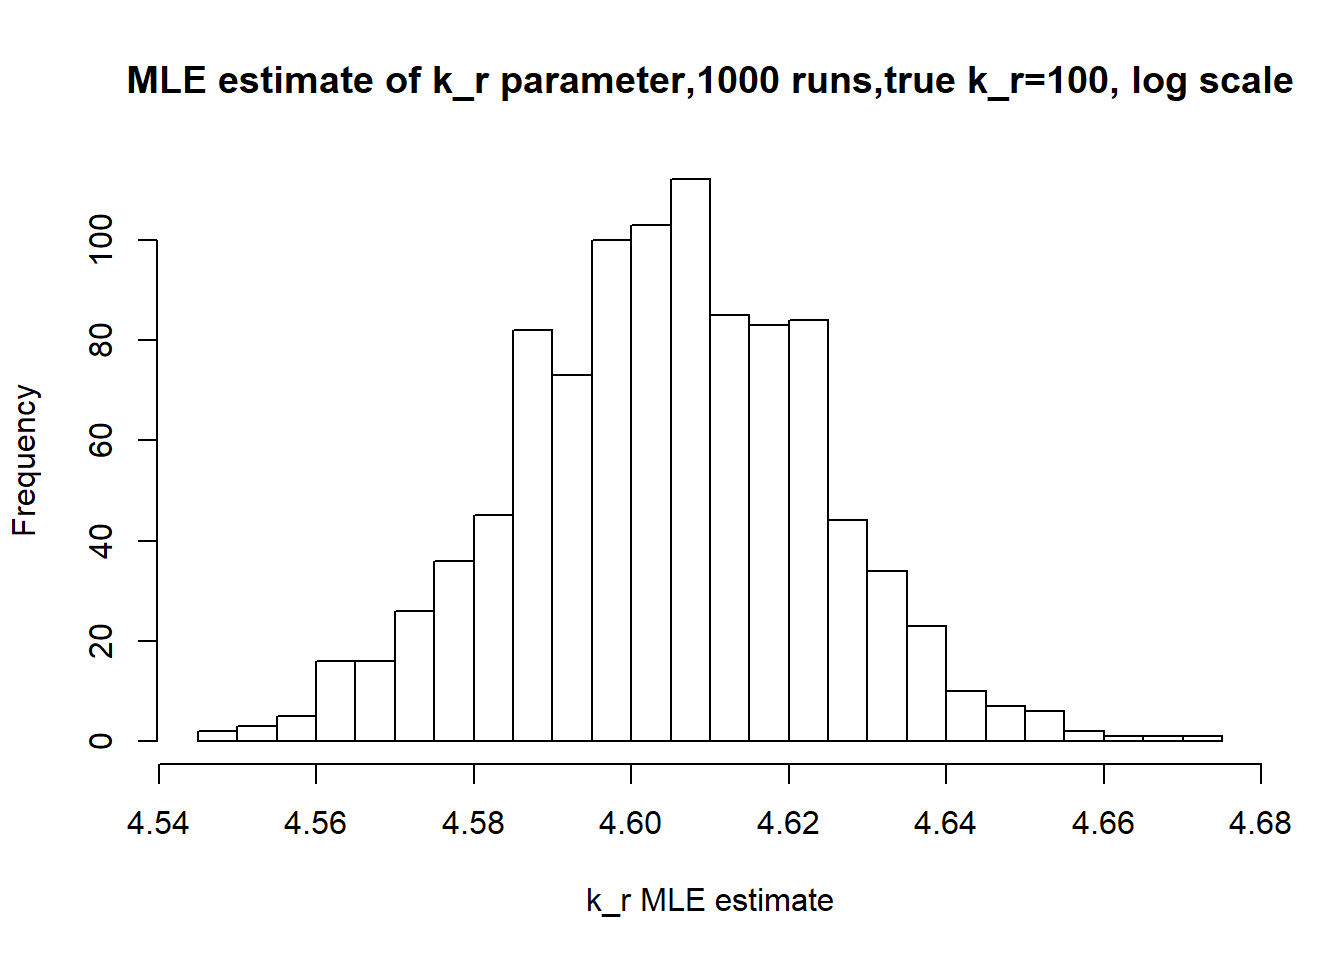
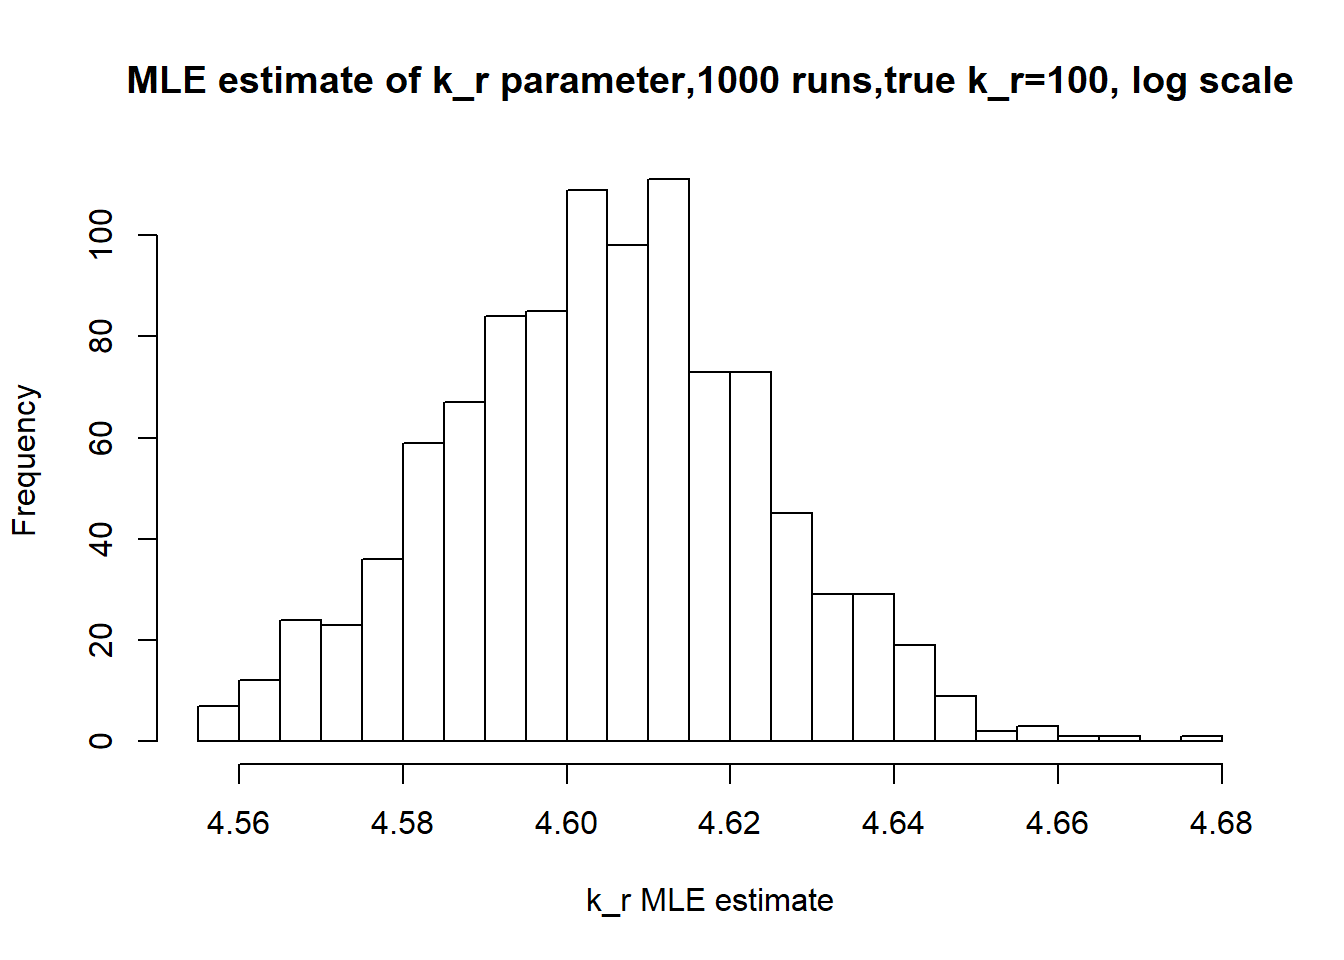
Build site.

diff --git a/docs/MLE_estimation_with_noise_parameter.html b/docs/MLE_estimation_with_noise_parameter.html
@@ -467,10 +467,10 @@ analysis/MLE_with_si.py
 <div class="panel panel-default">
 <div class="panel-heading">
 <p class="panel-title">
-<a data-toggle="collapse" data-parent="#workflowr-checks" href="#strongRepositoryversionstrongahrefhttpsgithubcomMargareth2407ThesissingleRNAtree1e3aeed50bc4f68b2cd2bc4b31e3de400831cb9btargetblank1e3aeeda"> <span class="glyphicon glyphicon-ok text-success" aria-hidden="true"></span> <strong>Repository version:</strong> <a href="https://github.com/Margareth2407/Thesis_single_RNA/tree/1e3aeed50bc4f68b2cd2bc4b31e3de400831cb9b" target="_blank">1e3aeed</a> </a>
+<a data-toggle="collapse" data-parent="#workflowr-checks" href="#strongRepositoryversionstrongahrefhttpsgithubcomMargareth2407ThesissingleRNAtreeb825f88168565e96829f50907dd5163ba465cd86targetblankb825f88a"> <span class="glyphicon glyphicon-ok text-success" aria-hidden="true"></span> <strong>Repository version:</strong> <a href="https://github.com/Margareth2407/Thesis_single_RNA/tree/b825f88168565e96829f50907dd5163ba465cd86" target="_blank">b825f88</a> </a>
 </p>
 </div>
[2 lines of base64/hex data omitted]
 <div class="panel-body">
 <p>
 Great! You are using Git for version control. Tracking code development and connecting the code version to the results is critical for reproducibility. The version displayed above was the version of the Git repository at the time these results were generated. <br><br> Note that you need to be careful to ensure that all relevant files for the analysis have been committed to Git prior to generating the results (you can use <code>wflow_publish</code> or <code>wflow_git_commit</code>). workflowr only checks the R Markdown file, but you know if there are other scripts or data files that it depends on. Below is the status of the Git repository when the results were generated:
@@ -525,42 +525,42 @@ n_cells=as.integer(100)
 x=generate_data(k_on,k_off,kr,n_cells)</code></pre>
 <pre class="r"><code>est=MaximumLikelihood(x)
 est</code></pre>
-<pre><code>[1]  0.1249461  0.1082681 98.7024566</code></pre>
+<pre><code>[1]   0.09774289   0.09789375 100.14870874</code></pre>
 <p>Then, we implement MLE calculation with <span class="math inline">\(s_i\)</span> parameter included.</p>
 <pre class="r"><code>source_python(&quot;C:/Users/Moonkin/Documents/GitHub/Thesis_single_RNA/analysis/MLE_with_si.py&quot;)</code></pre>
 <p>With <span class="math inline">\(s_i\)</span>=1 we should receive the same estimators as without <span class="math inline">\(s_i\)</span></p>
 <pre class="r"><code>si=matrix(1, nrow = 100, ncol = 1)
 est=MaximumLikelihood_with_si(x,si)
 est</code></pre>
-<pre><code>[1]  0.1249461  0.1082681 98.7024566</code></pre>
+<pre><code>[1]   0.09774289   0.09789375 100.14870874</code></pre>
 <p>With <span class="math inline">\(s_i\)</span>=2, our <span class="math inline">\(k_r\)</span> estimate drops twice, while <span class="math inline">\(k_{on}\)</span> and <span class="math inline">\(k_{off}\)</span> are not really affected by this change.</p>
 <pre class="r"><code>si=matrix(2, nrow = 100, ncol = 1)
 est=MaximumLikelihood_with_si(x,si)
 est</code></pre>
-<pre><code>[1]  0.1454266  0.5376166 53.8405016</code></pre>
+<pre><code>[1]  0.09799543  0.09834182 50.12201773</code></pre>
 <p>We also try using different <span class="math inline">\(s_i\)</span> values as this is what we will see in real data:</p>
 <pre class="r"><code>si=matrix(1:5, nrow = 100, ncol = 1)
 est=MaximumLikelihood_with_si(x,si)
 est</code></pre>
-<pre><code>[1]   0.2258937   0.6931179 106.6805741</code></pre>
+<pre><code>[1]   0.2072661   0.8161657 107.8370838</code></pre>
 </div>
 <div id="multiple-dataset-results" class="section level1">
 <h1>Multiple dataset results</h1>
 <p>Now we will also test model with <span class="math inline">\(s_i\)</span> vs the model without it:</p>
 <p>Initial MLE calculations:</p>
 <p><img src="figure/MLE_estimation_with_noise_parameter.Rmd/unnamed-chunk-8-1.png" width="672" style="display: block; margin: auto;" /></p>
-<pre><code>[1] &quot;true k_on is 0.1; k_on mean 0.1 k_on median 0.098&quot;</code></pre>
+<pre><code>[1] &quot;true k_on is 0.1; k_on mean 0.101 k_on median 0.099&quot;</code></pre>
 <p><img src="figure/MLE_estimation_with_noise_parameter.Rmd/unnamed-chunk-8-2.png" width="672" style="display: block; margin: auto;" /></p>
-<pre><code>[1] &quot;true k_off is 0.1; k_off mean 0.101 k_off median 0.099&quot;</code></pre>
+<pre><code>[1] &quot;true k_off is 0.1; k_off mean 0.103 k_off median 0.1&quot;</code></pre>
 <p><img src="figure/MLE_estimation_with_noise_parameter.Rmd/unnamed-chunk-8-3.png" width="672" style="display: block; margin: auto;" /></p>
-<pre><code>[1] &quot;true k_r is 100; k_r mean 99.938 k_r median 99.974&quot;</code></pre>
+<pre><code>[1] &quot;true k_r is 100; k_r mean 99.964 k_r median 99.96&quot;</code></pre>
 <p>MLE calculations with <span class="math inline">\(s_i\)</span>=2 for all cells:</p>
 <p><img src="figure/MLE_estimation_with_noise_parameter.Rmd/unnamed-chunk-9-1.png" width="672" style="display: block; margin: auto;" /></p>
 <pre><code>[1] &quot;true k_on is 0.1; k_on mean 0.103 k_on median 0.1&quot;</code></pre>
 <p><img src="figure/MLE_estimation_with_noise_parameter.Rmd/unnamed-chunk-9-2.png" width="672" style="display: block; margin: auto;" /></p>
-<pre><code>[1] &quot;true k_off is 0.1; k_off mean 0.108 k_off median 0.099&quot;</code></pre>
+<pre><code>[1] &quot;true k_off is 0.1; k_off mean 0.111 k_off median 0.101&quot;</code></pre>
 <p><img src="figure/MLE_estimation_with_noise_parameter.Rmd/unnamed-chunk-9-3.png" width="672" style="display: block; margin: auto;" /></p>
-<pre><code>[1] &quot;true k_r is 100; k_r mean 50.273 k_r median 49.99&quot;</code></pre>
+<pre><code>[1] &quot;true k_r is 100; k_r mean 50.652 k_r median 50.006&quot;</code></pre>
 </div>
 <div id="real-data" class="section level1">
 <h1>Real data</h1>
